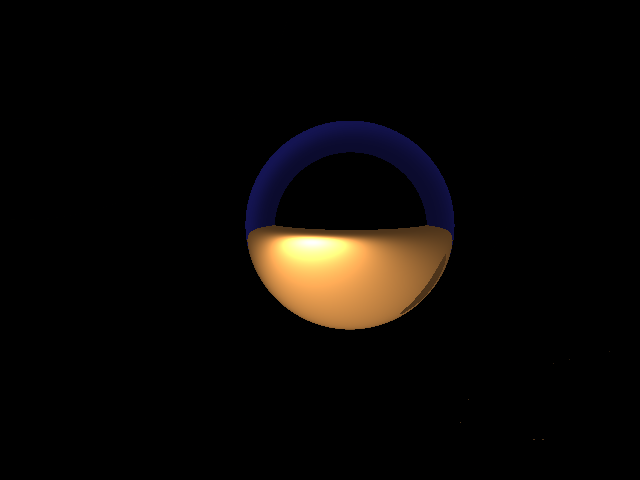
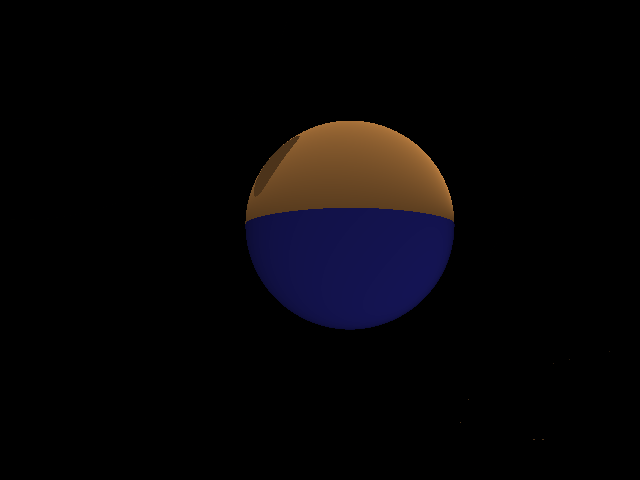
Passes test 26

Changed region(s): [[0.375, 0.25, 0.7188, 0.6875]]

diff --git a/Winter18/CS130Proj/Project/src/refractive_shader.cpp b/Winter18/CS130Proj/Project/src/refractive_shader.cpp
@@ -11,9 +11,14 @@ Shade_Surface(const Ray& ray, const vec3& intersection_point,
     vec3 reflection_color;
     vec3 refraction_color;
     double reflectance_ratio=-1;
+
+    vec3 D = ray.direction;
+    vec3 N = same_side_normal;
+    vec3 R = (D - 2 * dot(N, D) * N ).normalized();
     if(!world.disable_fresnel_refraction)
     {
         //TODO (Test 27+): Compute the refraction_color:
+        double n_r = (is_exiting) ? REFRACTIVE_INDICES::AIR : refractive_index;        
         // - Check if it is total internal reflection. 
         //      If so update the reflectance_ratio for total internal refraction
         //
@@ -28,13 +33,8 @@ Shade_Surface(const Ray& ray, const vec3& intersection_point,
     if(!world.disable_fresnel_reflection){
         //TODO:(Test 26+): Compute reflection_color:
         // - Cast Reflection Ray and get color
-  /*
-        vec3 L = ray.direction;
-        vec3 N = same_side_normal;
-        vec3 R = (L - 2 * dot(N, L) * N ).normalized();
         Ray reflectedRay(intersection_point, R);
-        vec3 reflectedColor = world.Cast_Ray(reflectedRay, ++recursion_depth);
-*/
+        reflection_color = world.Cast_Ray(reflectedRay, ++recursion_depth);
 
     }
 
@@ -42,7 +42,7 @@ Shade_Surface(const Ray& ray, const vec3& intersection_point,
     vec3 color;
     // TODO: (Test 26+) Compute final 'color' by blending reflection_color and refraction_color using 
     //                  reflectance_ratio
-    //
+    color = reflectance_ratio  *  reflection_color  +   ( 1   -  reflectance_ratio )   *  refraction_color;
     return color;
 }
 
